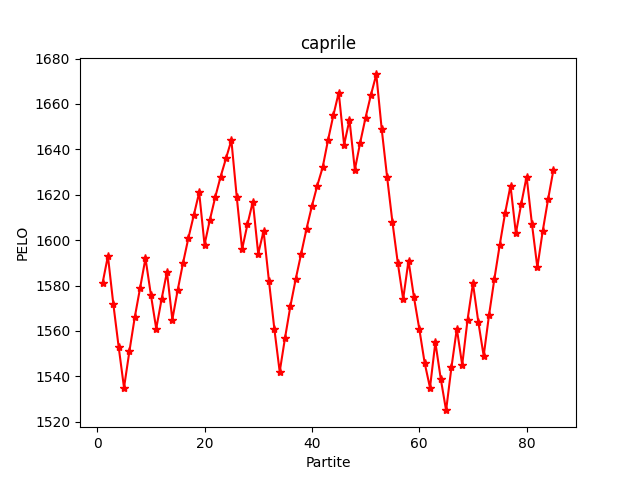
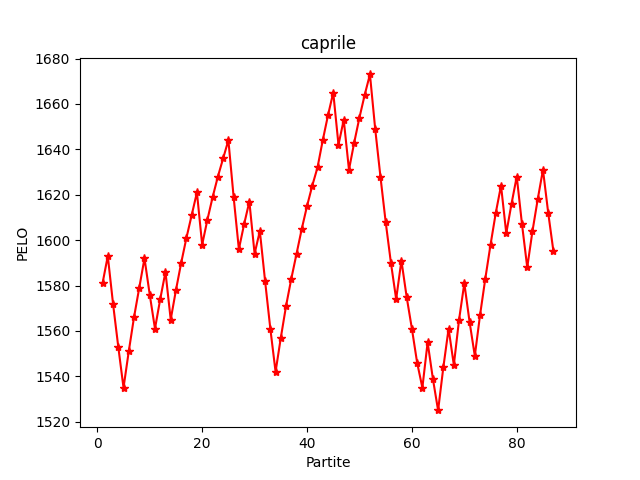
Add files via upload

diff --git a/index.htm b/index.htm
@@ -17,21 +17,21 @@
   <tbody>
     <tr>
       <th>0</th>
-      <td><a href='zontini.png'>zontini</a></td>
-      <td>1652</td>
-      <td>165</td>
-      <td>90</td>
-      <td>1657</td>
-      <td>1580</td>
+      <td><a href='castellani.png'>castellani</a></td>
+      <td>1639</td>
+      <td>331</td>
+      <td>142</td>
+      <td>3060</td>
+      <td>3308</td>
     </tr>
     <tr>
       <th>1</th>
-      <td><a href='caprile.png'>caprile</a></td>
-      <td>1631</td>
-      <td>126</td>
-      <td>80</td>
-      <td>1301</td>
-      <td>1101</td>
+      <td><a href='zontini.png'>zontini</a></td>
+      <td>1618</td>
+      <td>183</td>
+      <td>99</td>
+      <td>1823</td>
+      <td>1748</td>
     </tr>
     <tr>
       <th>2</th>
@@ -53,21 +53,21 @@
     </tr>
     <tr>
       <th>4</th>
+      <td><a href='caprile.png'>caprile</a></td>
+      <td>1595</td>
+      <td>128</td>
+      <td>80</td>
+      <td>1320</td>
+      <td>1127</td>
+    </tr>
+    <tr>
+      <th>5</th>
       <td><a href='devigili.png'>devigili</a></td>
       <td>1595</td>
       <td>8</td>
       <td>7</td>
       <td>88</td>
       <td>57</td>
-    </tr>
-    <tr>
-      <th>5</th>
-      <td><a href='castellani.png'>castellani</a></td>
-      <td>1549</td>
-      <td>311</td>
-      <td>131</td>
-      <td>2866</td>
-      <td>3123</td>
     </tr>
     <tr>
       <th>6</th>
